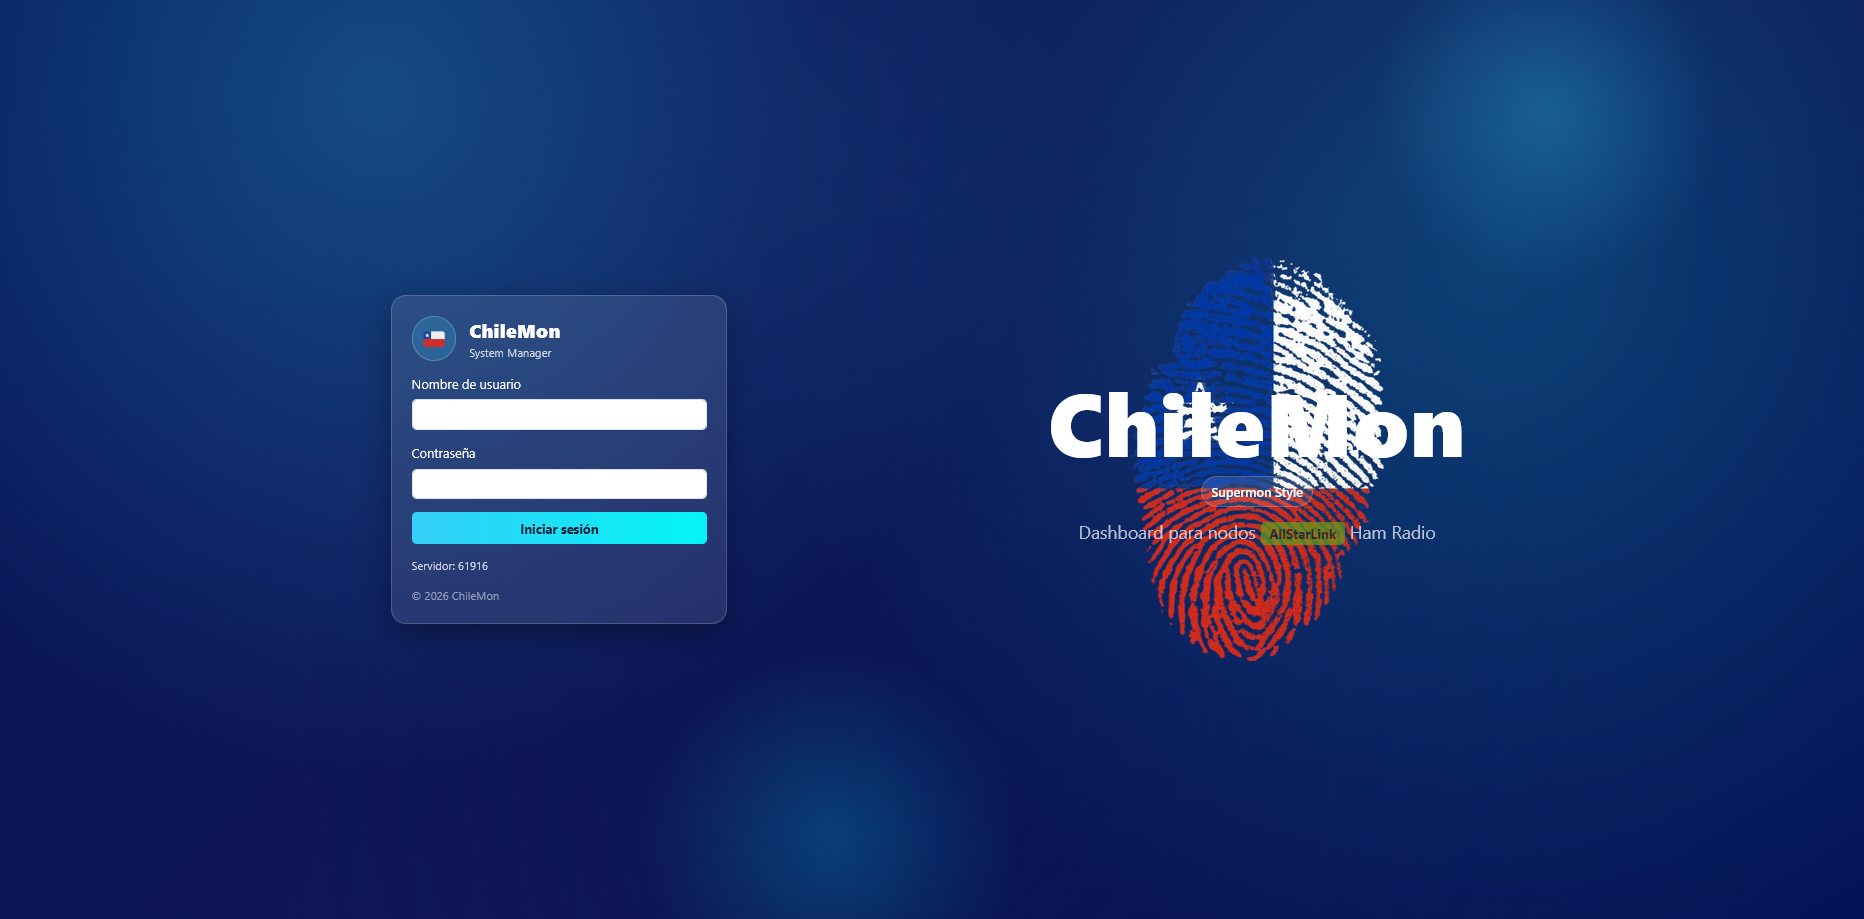
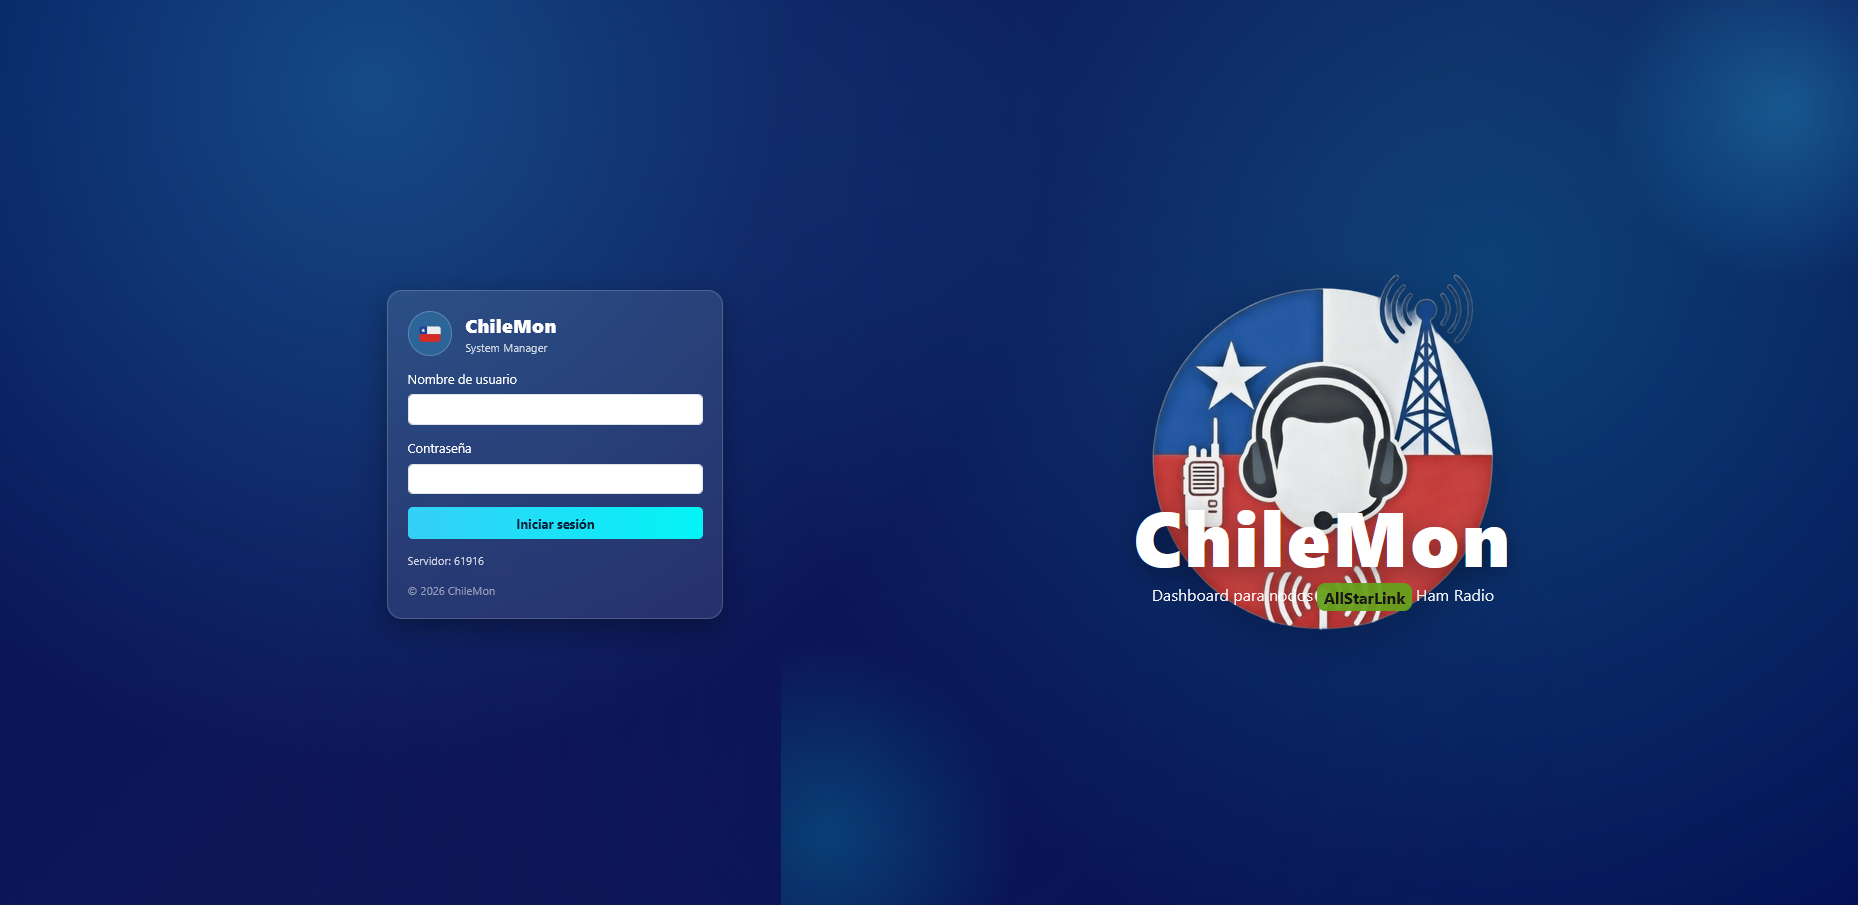
Milestone 2 closed: - Dashboard refresh fixed - Login branding responsive adjustments - Favorites modal fully operational - Docs updated (GitHub Pages roadmap sync)

diff --git a/docs/index.html b/docs/index.html
@@ -345,23 +345,23 @@
         <div class="col-lg-6">
           <div class="card shadow-sm h-100 border-0">
             <div class="card-body p-3">
-              <img src="img/dashboard-main.png" class="img-fluid rounded-4 border" alt="ChileMon Dashboard principal">
-            </div>
-            <div class="card-footer bg-transparent border-0 text-secondary small">
-              <i class="bi bi-layout-text-window-reverse"></i>
-              Vista principal — nodos monitoreados, conexión rápida y estado del sistema.
-            </div>
-          </div>
-        </div>
-
-        <div class="col-lg-6">
-          <div class="card shadow-sm h-100 border-0">
-            <div class="card-body p-3">
-              <img src="img/login-screen.png" class="img-fluid rounded-4 border" alt="ChileMon Login">
+              <img src="img/login-screen.png" class="img-fluid rounded-4 border" alt="ChileMon Dashboard principal">
             </div>
             <div class="card-footer bg-transparent border-0 text-secondary small">
               <i class="bi bi-shield-lock"></i>
               Login modernizado (split layout) y base para identidad visual.
+            </div>
+          </div>
+        </div>
+        
+        <div class="col-lg-6">
+          <div class="card shadow-sm h-100 border-0">
+            <div class="card-body p-3">
+              <img src="img/dashboard-main.png" class="img-fluid rounded-4 border" alt="ChileMon Login">
+            </div>
+            <div class="card-footer bg-transparent border-0 text-secondary small">
+              <i class="bi bi-layout-text-window-reverse"></i>
+              Vista principal — Dashboard tema Dark, conexión rápida y estado del sistema.
             </div>
           </div>
         </div>
